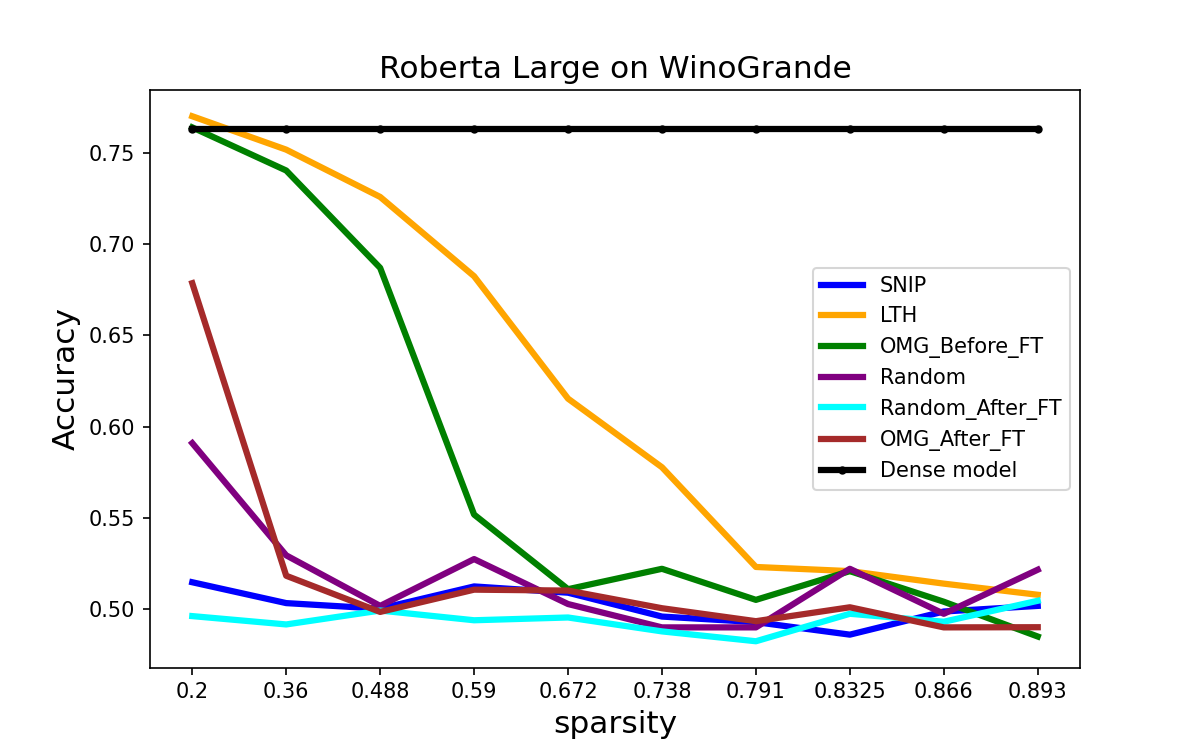
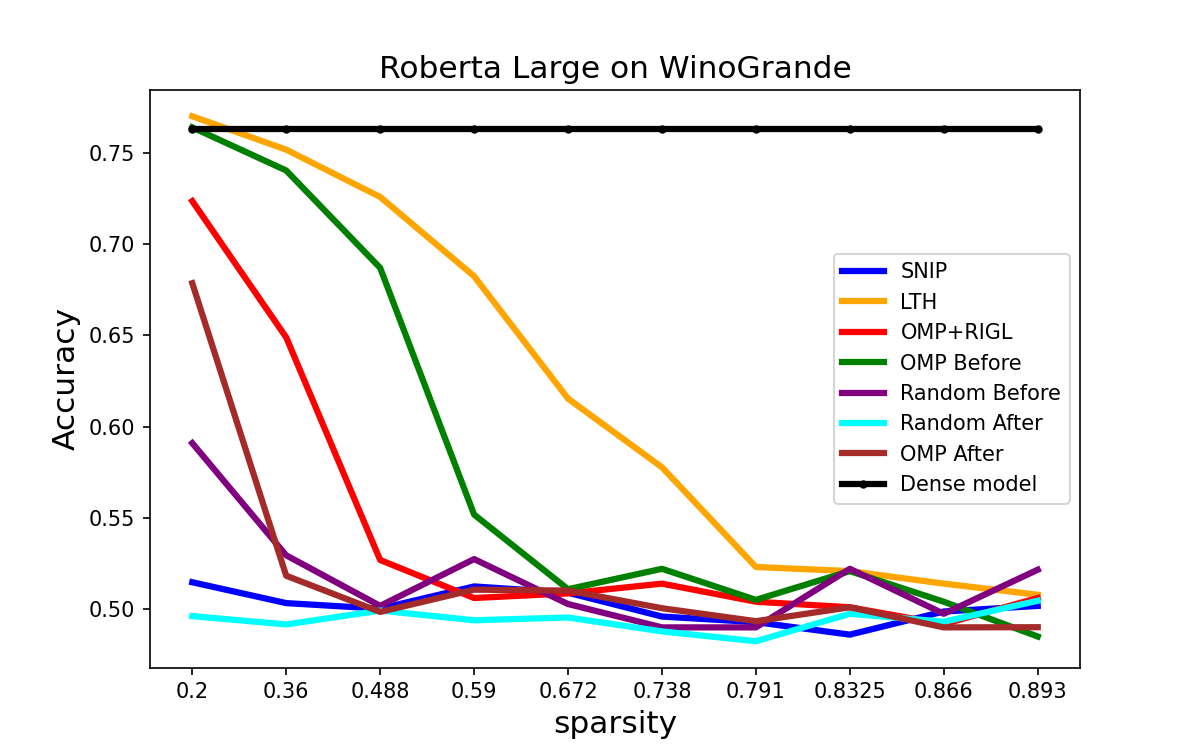
snip random + rigl

diff --git a/plot/Commonsense_qa.py b/plot/Commonsense_qa.py
@@ -13,6 +13,7 @@ x_lth = [0.2, 0.36, 0.488, 0.590, 0.672, 0.738, 0.791, 0.8325, 0.866, 0.893]
 robert_snip = [20.31, 18.92, 18.51, 19.16, 18.67, 18.76, 18.76, 18.59, 18.59, 18.26]
 robert_gm_before = [75.92, 59.41, 39.39, 19.57, 19.57, 19.57, 19.57, 19.57, 19.57, 19.57]
 robert_gm_after = [62.24, 29.07, 20.63, 19.57, 19.57, 19.57, 19.57, 19.57, 19.57, 19.57]
+robert_gm_rigl = [60.36, 29.57, 21.38, 19.57, 19.57, 19.57, 19.57, 19.57, 19.57, 19.57]
 robert_random_before = [28.99, 20.23, 21.87, 21.29, 20.97, 20.07, 20.48, 20.31, 20.97, 20.72]
 robert_random_after  =  [18.10, 19.73, 19.25, 18.76, 20.23, 20.07, 20.48, 20.31, 19.00, 20.07]
 # 0.02 0.05 0.1 ... 0.9 0.95
@@ -24,10 +25,11 @@ roberta_large = fig.add_subplot(1,1,1)
 roberta_large.plot(x_axis, dense*10,  '-o',   label='Dense model',color='black',linewidth=3, markersize=markersize, )
 roberta_large.plot(x_axis, robert_snip,  '-',   label='SNIP',color='#dbb40c',linewidth=3, markersize=markersize, )
 roberta_large.plot(x_axis, robert_lth,  '-',   label='LTH',color='orange',linewidth=3, markersize=markersize, )
-roberta_large.plot(x_axis, robert_gm_before,  '-',   label='OMP Before FT',color='green',linewidth=3, markersize=markersize, )
-roberta_large.plot(x_axis, robert_gm_after,  '-',   label='OMP After FT',color='cyan',linewidth=3, markersize=markersize, )
-roberta_large.plot(x_axis, robert_random_before,  '-',   label='Random Before FT',color='purple',linewidth=3, markersize=markersize, )
-roberta_large.plot(x_axis, robert_random_after,  '-',   label='Random After FT',color='yellow',linewidth=3, markersize=markersize, )
+roberta_large.plot(x_axis, robert_gm_rigl,  '-',   label='OMP+RIGL',color='red',linewidth=3, markersize=markersize, )
+roberta_large.plot(x_axis, robert_gm_before,  '-',   label='OMP Before',color='green',linewidth=3, markersize=markersize, )
+roberta_large.plot(x_axis, robert_gm_after,  '-',   label='OMP After',color='cyan',linewidth=3, markersize=markersize, )
+roberta_large.plot(x_axis, robert_random_before,  '-',   label='Random Before',color='purple',linewidth=3, markersize=markersize, )
+roberta_large.plot(x_axis, robert_random_after,  '-',   label='Random After',color='yellow',linewidth=3, markersize=markersize, )
 # vgg_all.plot(x_axis, [50]*11,  '-o',   label='random guess',color='gray',linewidth=3, markersize=markersize, )
 roberta_large.set_title('Roberta large on CommonsenseQA',fontsize=fontsize)
 roberta_large.set_xticks(range(10))

diff --git a/plot/winogrande.py b/plot/winogrande.py
@@ -28,6 +28,13 @@ with open('/Users/liushiwei/Projects/fairseq/results/reasoning/winogrande/winogr
         if 'val | epoch 019 |' in line:
             acc_snip.append(float(line.split()[19][:-1]))
 
+acc_omp_rigl = []
+with open('/Users/liushiwei/Projects/fairseq/results/reasoning/winogrande/winogrande_gm_rigl.out') as file:
+    for line in file:
+        if 'val | epoch 019 |' in line:
+            acc_omp_rigl.append(float(line.split()[19][:-1]))
+
+
 acc_imp = []
 with open('/Users/liushiwei/Projects/fairseq/results/reasoning/winogrande/winogrande_imp_0.2.out') as file:
     for line in file:
@@ -55,10 +62,11 @@ x_axis = range(10)
 roberta_large = fig.add_subplot(1,1,1)
 roberta_large.plot(x_axis, acc_snip,  '-',   label='SNIP',color='blue',linewidth=3, markersize=markersize, )
 roberta_large.plot(x_axis, acc_imp[1:],  '-',   label='LTH',color='orange',linewidth=3, markersize=markersize, )
-roberta_large.plot(x_axis, acc_gm,  '-',   label='OMG_Before_FT',color='green',linewidth=3, markersize=markersize, )
-roberta_large.plot(x_axis, acc_random,  '-',   label='Random',color='purple',linewidth=3, markersize=markersize, )
-roberta_large.plot(x_axis, acc_random_after,  '-',   label='Random_After_FT',color='cyan',linewidth=3, markersize=markersize, )
-roberta_large.plot(x_axis, acc_omg_after,  '-',   label='OMG_After_FT',color='brown',linewidth=3, markersize=markersize, )
+roberta_large.plot(x_axis, acc_omp_rigl,  '-',   label='OMP+RIGL',color='red',linewidth=3, markersize=markersize, )
+roberta_large.plot(x_axis, acc_gm,  '-',   label='OMP Before',color='green',linewidth=3, markersize=markersize, )
+roberta_large.plot(x_axis, acc_random,  '-',   label='Random Before',color='purple',linewidth=3, markersize=markersize, )
+roberta_large.plot(x_axis, acc_random_after,  '-',   label='Random After',color='cyan',linewidth=3, markersize=markersize, )
+roberta_large.plot(x_axis, acc_omg_after,  '-',   label='OMP After',color='brown',linewidth=3, markersize=markersize, )
 roberta_large.plot(x_axis, [acc_imp[0]]*10,  '-o',   label='Dense model',color='black',linewidth=3, markersize=markersize, )
 # vgg_all.plot(x_axis, [50]*11,  '-o',   label='random guess',color='gray',linewidth=3, markersize=markersize, )
 roberta_large.set_title('Roberta Large on WinoGrande',fontsize=fontsize)
